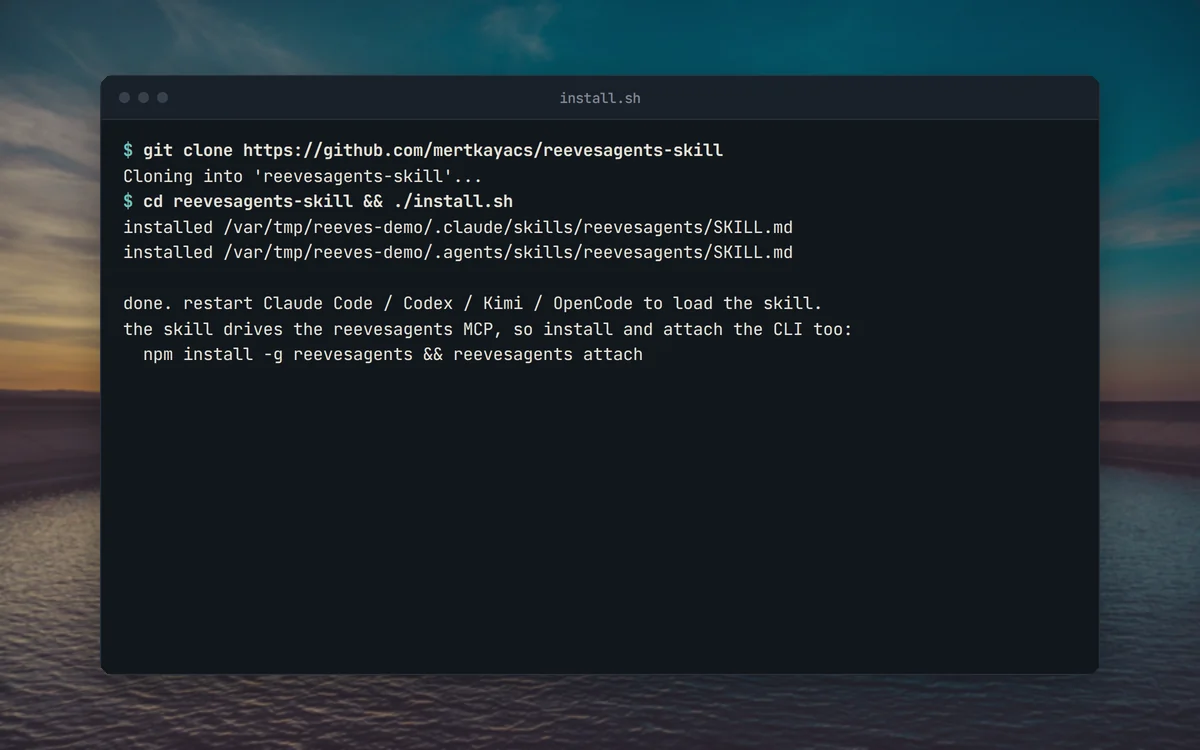
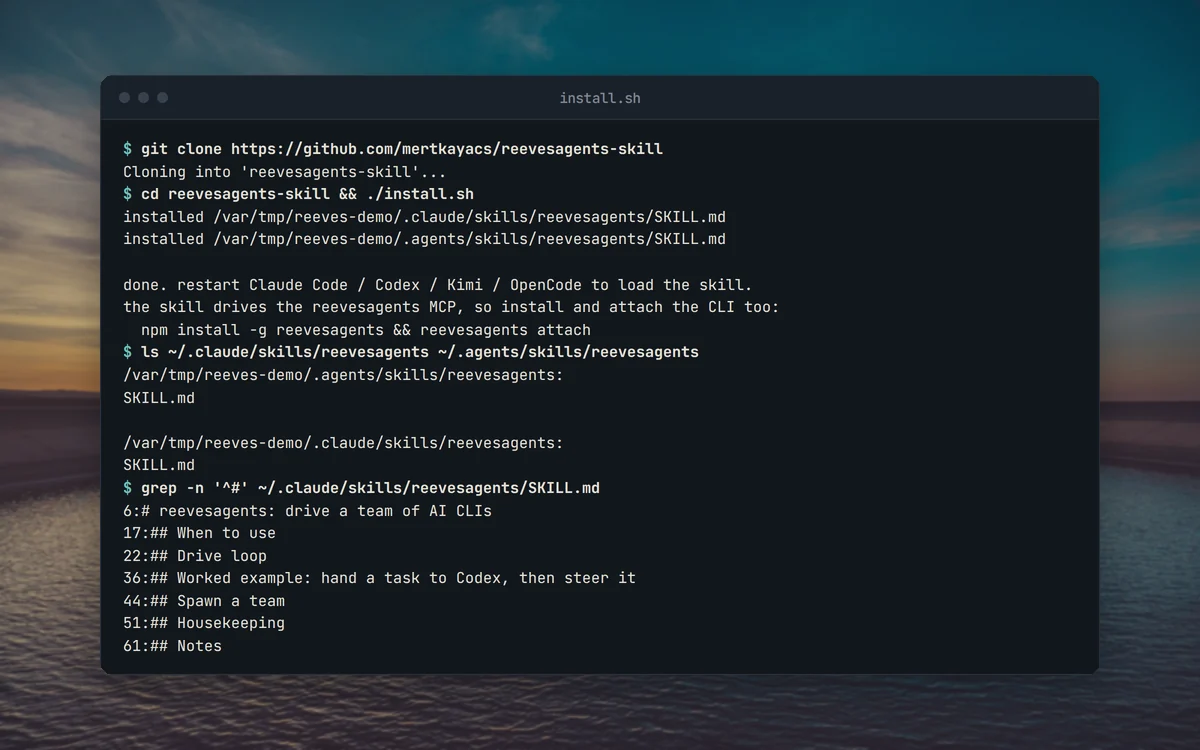
docs(readme): polish the readme visuals

Changed region(s): [[0.0925, 0.184, 0.7092, 0.552], [0.0925, 0.5827, 0.5242, 0.8893]]

diff --git a/README.md b/README.md
@@ -55,7 +55,7 @@ The skill gives your host CLI the steps to run a team. reevesagents runs the ter
     <td width="50%" valign="top">
       <picture>
         <source media="(prefers-color-scheme: dark)" srcset="docs/assets/readme/tour-codex-dark.webp">
-        <img src="docs/assets/readme/tour-codex-light.webp" alt="A terminal adding the reevesagents-skill marketplace to Codex and installing the reevesagents plugin">
+        <img src="docs/assets/readme/tour-codex-light.webp" alt="A terminal adding the reevesagents-skill marketplace to Codex, installing the reevesagents plugin and listing the files in the plugin&#x27;s install root">
       </picture>
       <h3>Install in Codex</h3>
       Two Codex commands add this repository as a marketplace and install the plugin. Restart Codex to load it.
@@ -63,7 +63,7 @@ The skill gives your host CLI the steps to run a team. reevesagents runs the ter
     <td width="50%" valign="top">
       <picture>
         <source media="(prefers-color-scheme: dark)" srcset="docs/assets/readme/tour-install-sh-dark.webp">
-        <img src="docs/assets/readme/tour-install-sh-light.webp" alt="A terminal cloning reevesagents-skill and running install.sh, which copies SKILL.md into two skill folders">
+        <img src="docs/assets/readme/tour-install-sh-light.webp" alt="A terminal cloning reevesagents-skill and running install.sh, which copies SKILL.md into two skill folders, then listing both folders and the headings of the installed SKILL.md">
       </picture>
       <h3>Skill folders only</h3>
       install.sh copies SKILL.md into ~/.claude/skills and ~/.agents/skills, for CLIs that read skill folders without a plugin.
